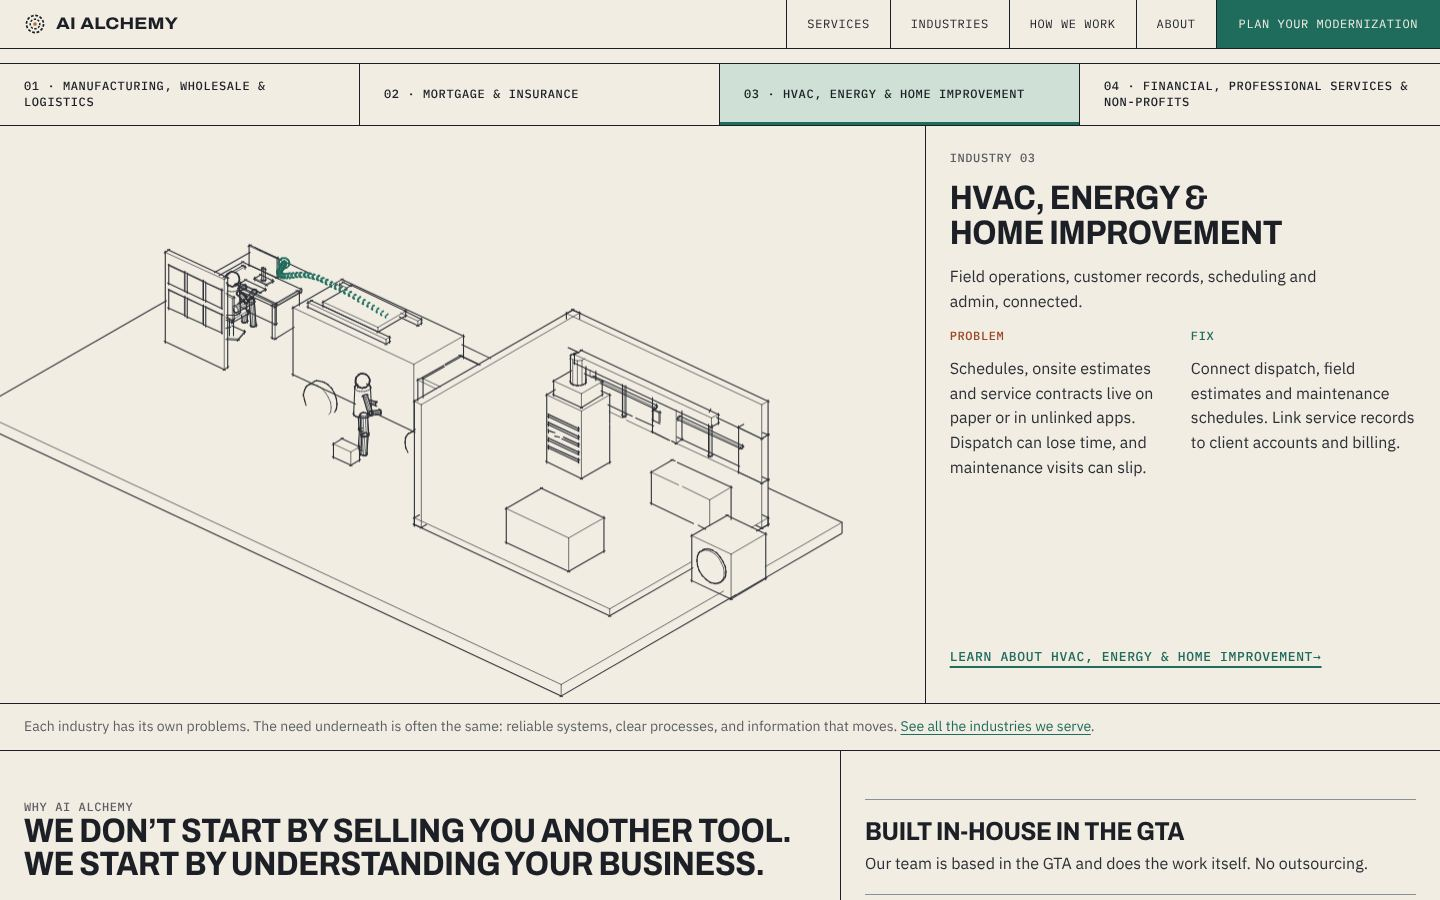
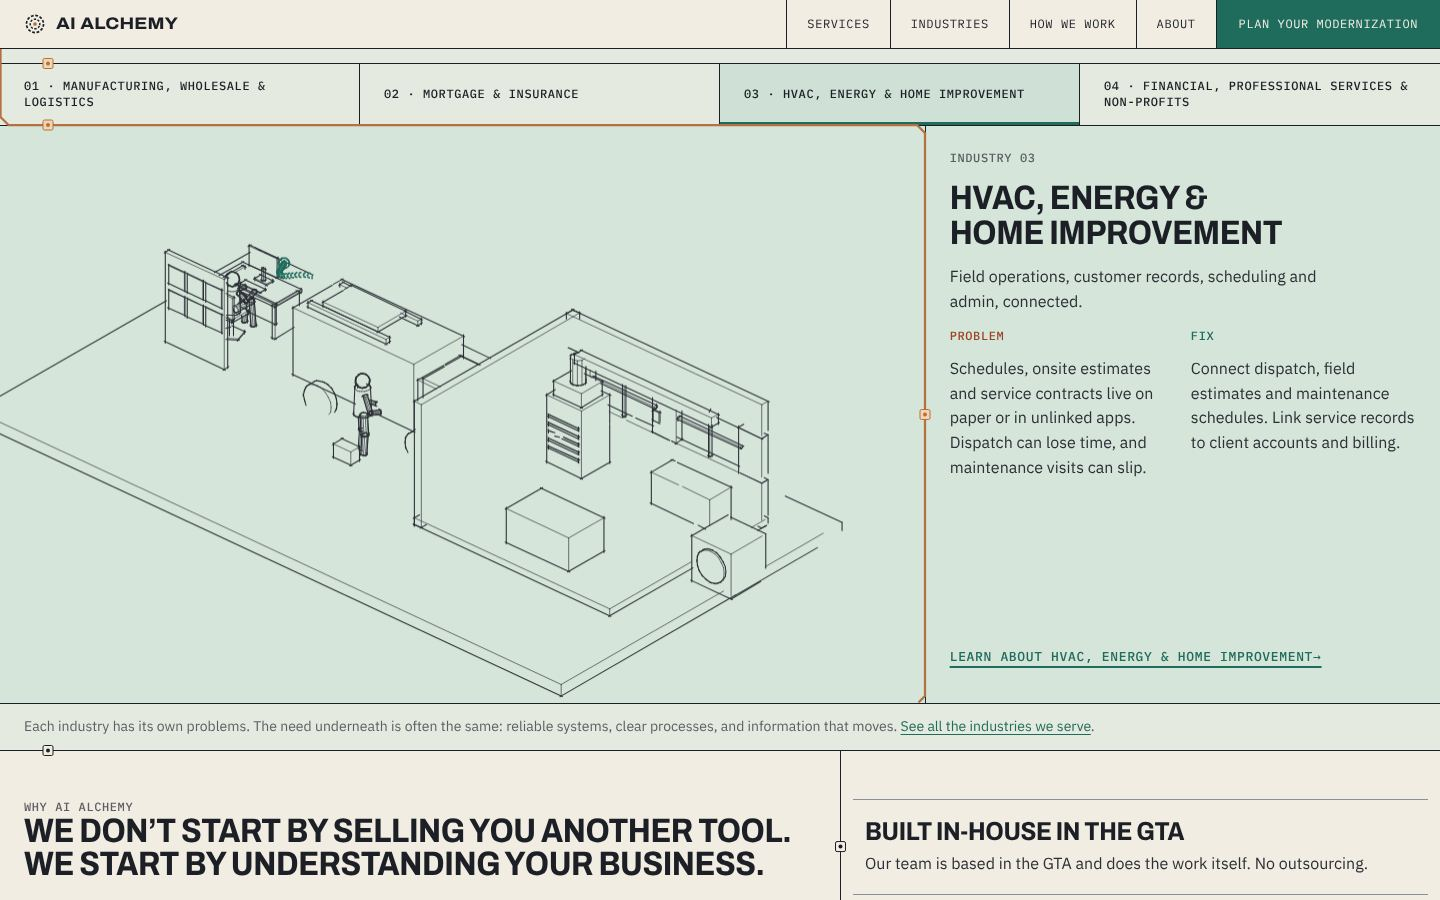
Homepage as one continuous circuit board
One copper trace runs along the page hairlines through every section;
areas power up in pastel colour as it reaches them and drawings shift
from graphite to colour. The board comes alive at the project brief.

Claude-Session: https://claude.ai/code/session_017Smo8XCRpNrmJT8zS28vAY

diff --git a/assets/board.js b/assets/board.js
@@ -1,0 +1,201 @@
+/* AI Alchemy homepage as one circuit board.
+   The page's hairline grid is the board. One copper trace runs along those hairlines from the hero to the
+   project brief, joining every component in order. As you scroll the trace draws on; each area it reaches
+   powers up and gains its colour; when the trace reaches the brief, the whole board is live.
+   Traces only ever run on hairlines, so they never cross text. Reduced motion: everything is live at once. */
+(() => {
+  'use strict';
+  const main = document.querySelector('main'); if (!main) return;
+  const reduce = matchMedia('(prefers-reduced-motion: reduce)').matches;
+  const root = document.documentElement; root.classList.add('has-board');
+  const NS = 'http://www.w3.org/2000/svg';
+  const $$ = (s, r = document) => [...r.querySelectorAll(s)];
+
+  /* components, in the order the trace visits them. side: where the pad sits on the component's box */
+  const PLAN = [
+    ['.hero-drawing', 'b', '.hero'], ['.hero-side', 'l'], ['.ticker', 't'],
+    ['.problems .head', 'b', '.problems'], ['.p-col', 't', 'self'],
+    ['.chain .head', 'b', '.chain'], ['.tower .stage', 'r', 'self'], ['.chain-note', 't'],
+    ['.products > div:last-child', 'l', '.products'],
+    ['.how .head', 'b', '.how'], ['.how-view', 'b'], ['.how-steps > li', 't', 'self'],
+    ['.ind .head', 'b', '.ind'], ['.ind-tabs', 'b'], ['.ind-panel:not([hidden]) figure', 'r', '.ind-panel:not([hidden])'],
+    ['.notes', 't', '.notes'], ['.notes .fact', 'l', 'self'],
+    ['.brief-band', 't', '.brief-band'], ['.brief-band .btn', 'l']
+  ];
+
+  const svg = document.createElementNS(NS, 'svg'); svg.classList.add('board'); svg.setAttribute('aria-hidden', 'true');
+  const mk = (n, a) => { const e = document.createElementNS(NS, n); for (const k in a) e.setAttribute(k, a[k]); return e; };
+  const trace = mk('path', { class: 'trace' }), pulse = mk('path', { class: 'pulse' }), padsG = mk('g', { class: 'pads' });
+  svg.append(trace, pulse, padsG);
+  main.style.position = 'relative'; main.append(svg);
+
+  let path = [], cum = [], nodes = [], total = 0, shown = 0, target = 0, alive = false;
+
+  /* ---- 1. read the hairlines ---- */
+  const inSticky = el => { for (let e = el; e && e !== main; e = e.parentElement) { const p = getComputedStyle(e).position; if (p === 'sticky' || p === 'fixed') return true; } return false; };
+  function hairlines() {
+    const mr = main.getBoundingClientRect(), ox = mr.left, oy = mr.top, H = [], V = [];
+    for (const el of main.querySelectorAll('*')) {
+      if (el === svg || svg.contains(el) || el.closest('.ld') || el.closest('[hidden]')) continue;
+      const cs = getComputedStyle(el); if (cs.display === 'none' || cs.visibility === 'hidden') continue;
+      const bt = parseFloat(cs.borderTopWidth), bb = parseFloat(cs.borderBottomWidth), bl = parseFloat(cs.borderLeftWidth), br = parseFloat(cs.borderRightWidth);
+      if (!(bt || bb || bl || br)) continue;
+      if (el.closest('.notes ol')) continue;                     /* faint list rules are not traces */
+      if (inSticky(el)) continue;
+      const r = el.getBoundingClientRect(); if (r.width < 2 || r.height < 2) continue;
+      const x0 = r.left - ox, x1 = r.right - ox, y0 = r.top - oy, y1 = r.bottom - oy;
+      if (bt) H.push([y0 + bt / 2, x0, x1]); if (bb) H.push([y1 - bb / 2, x0, x1]);
+      if (bl) V.push([x0 + bl / 2, y0, y1]); if (br) V.push([x1 - br / 2, y0, y1]);
+    }
+    /* the board edges, so every area has a way round */
+    const W = main.clientWidth, Hh = main.scrollHeight;
+    V.push([0.5, 0, Hh], [W - 0.5, 0, Hh]);
+    return { H: merge(H), V: merge(V) };
+  }
+  const merge = segs => {
+    segs = segs.map(s => [Math.round(s[0] * 2) / 2, s[1], s[2]]).sort((a, b) => a[0] - b[0] || a[1] - b[1]);
+    const out = [];
+    for (const s of segs) { const l = out[out.length - 1]; if (l && Math.abs(l[0] - s[0]) < 1.6 && s[1] <= l[2] + 2) l[2] = Math.max(l[2], s[2]); else out.push(s.slice()); }
+    return out;
+  };
+
+  /* ---- 2. graph: points where hairlines meet, plus pads ---- */
+  function graph(H, V, pads) {
+    const pts = [], key = new Map(), adj = [];
+    const id = (x, y) => { const k = Math.round(x) + ',' + Math.round(y); if (!key.has(k)) { key.set(k, pts.length); pts.push([x, y]); adj.push([]); } return key.get(k); };
+    const onH = H.map(() => []), onV = V.map(() => []);
+    H.forEach((h, i) => V.forEach((v, j) => { if (v[0] >= h[1] - 1.5 && v[0] <= h[2] + 1.5 && h[0] >= v[1] - 1.5 && h[0] <= v[2] + 1.5) { const n = id(v[0], h[0]); onH[i].push(n); onV[j].push(n); } }));
+    const padIds = pads.map(p => { const n = id(p.x, p.y); (p.h != null ? onH[p.h] : onV[p.v]).push(n); return n; });
+    const link = (list, axis) => { const u = [...new Set(list)].sort((a, b) => pts[a][axis] - pts[b][axis]); for (let i = 1; i < u.length; i++) { const a = u[i - 1], b = u[i], d = Math.abs(pts[b][axis] - pts[a][axis]); adj[a].push([b, d, axis]); adj[b].push([a, d, axis]); } };
+    onH.forEach(l => link(l, 0)); onV.forEach(l => link(l, 1));
+    return { pts, adj, padIds };
+  }
+  /* nearest point on a hairline to the pad's anchor */
+  function snap(H, V, x, y, side) {
+    let best = null, bd = 1e9;
+    const horiz = side === 't' || side === 'b';
+    if (horiz) H.forEach((h, i) => { if (x < h[1] - 1 || x > h[2] + 1) return; const d = Math.abs(h[0] - y); if (d < bd) { bd = d; best = { x, y: h[0], h: i }; } });
+    else V.forEach((v, i) => { if (y < v[1] - 1 || y > v[2] + 1) return; const d = Math.abs(v[0] - x); if (d < bd) { bd = d; best = { x: v[0], y, v: i }; } });
+    return bd < 80 ? best : null;
+  }
+  /* shortest route, with a cost for every turn and for reusing a hairline already used */
+  function route(G, a, b, used) {
+    const n = G.pts.length, dist = new Float64Array(n * 3).fill(Infinity), prev = new Int32Array(n * 3).fill(-1);
+    const heap = [[0, a * 3 + 2]]; dist[a * 3 + 2] = 0;
+    const push = e => { heap.push(e); let i = heap.length - 1; while (i) { const p = (i - 1) >> 1; if (heap[p][0] <= heap[i][0]) break; [heap[p], heap[i]] = [heap[i], heap[p]]; i = p; } };
+    const pop = () => { const t = heap[0], l = heap.pop(); if (heap.length) { heap[0] = l; let i = 0; for (;;) { const L = 2 * i + 1, R = L + 1; let m = i; if (L < heap.length && heap[L][0] < heap[m][0]) m = L; if (R < heap.length && heap[R][0] < heap[m][0]) m = R; if (m === i) break; [heap[m], heap[i]] = [heap[i], heap[m]]; i = m; } } return t; };
+    while (heap.length) {
+      const [d, s] = pop(); if (d > dist[s]) continue; const u = (s / 3) | 0, ax = s % 3;
+      if (u === b) { const out = []; for (let t = s; t >= 0; t = prev[t]) out.push((t / 3) | 0); return out.reverse(); }
+      for (const [v, w, axis] of G.adj[u]) {
+        const e = u < v ? u + '-' + v : v + '-' + u;
+        const c = d + w * (used.has(e) ? 4 : 1) + (ax !== 2 && ax !== axis ? 60 : 0), t = v * 3 + axis;
+        if (c < dist[t]) { dist[t] = c; prev[t] = s; push([c, t]); }
+      }
+    }
+    return null;
+  }
+
+  /* ---- 3. build the board ---- */
+  function build() {
+    const mr = main.getBoundingClientRect();
+    svg.setAttribute('width', main.clientWidth); svg.setAttribute('height', main.scrollHeight);
+    svg.setAttribute('viewBox', `0 0 ${main.clientWidth} ${main.scrollHeight}`);
+    const { H, V } = hairlines();
+    const pads = [];
+    for (const [sel, side, zone] of PLAN) for (const el of $$(sel, main)) {
+      if (el.closest('[hidden]')) continue;
+      const r = el.getBoundingClientRect(); if (!r.height) continue;
+      const x = (side === 'l' ? r.left : side === 'r' ? r.right : r.left + Math.min(r.width / 2, 48)) - mr.left;
+      const y = (side === 't' ? r.top : side === 'b' ? r.bottom : r.top + r.height / 2) - mr.top;
+      const p = snap(H, V, x, y, side); if (!p) continue;
+      p.zone = zone === 'self' ? el : zone ? el.closest(zone) || main.querySelector(zone) : null; p.el = el;
+      pads.push(p);
+    }
+    const G = graph(H, V, pads), used = new Set();
+    path = []; nodes = [];
+    for (let i = 0; i < pads.length; i++) {
+      if (i === 0) { path.push(G.padIds[0]); nodes.push({ i: 0, pad: pads[0] }); continue; }
+      const r = route(G, G.padIds[i - 1], G.padIds[i], used); if (!r) continue;
+      for (let k = 1; k < r.length; k++) { const a = r[k - 1], b = r[k]; used.add(a < b ? a + '-' + b : b + '-' + a); path.push(b); }
+      nodes.push({ i: path.length - 1, pad: pads[i] });
+    }
+    const P = path.map(n => G.pts[n]);
+    /* drop points in the middle of straight runs, then round the corners like a drawn trace */
+    const Q = P.filter((p, i) => i === 0 || i === P.length - 1 || !((P[i - 1][0] === p[0] && p[0] === P[i + 1][0]) || (P[i - 1][1] === p[1] && p[1] === P[i + 1][1])));
+    let d = `M${Q[0][0]},${Q[0][1]}`;
+    for (let i = 1; i < Q.length; i++) {
+      const a = Q[i - 1], b = Q[i], c = Q[i + 1];
+      if (!c) { d += `L${b[0]},${b[1]}`; break; }
+      const r = Math.min(8, Math.hypot(b[0] - a[0], b[1] - a[1]) / 2, Math.hypot(c[0] - b[0], c[1] - b[1]) / 2);
+      const ux = Math.sign(b[0] - a[0]), uy = Math.sign(b[1] - a[1]), vx = Math.sign(c[0] - b[0]), vy = Math.sign(c[1] - b[1]);
+      d += `L${b[0] - ux * r},${b[1] - uy * r}L${b[0] + vx * r},${b[1] + vy * r}`;   /* 45° chamfer */
+    }
+    trace.setAttribute('d', d); pulse.setAttribute('d', d);
+    total = trace.getTotalLength();
+    /* length along the trace at each node and the deepest point reached so far */
+    cum = [0]; for (let i = 1; i < P.length; i++) cum[i] = cum[i - 1] + Math.hypot(P[i][0] - P[i - 1][0], P[i][1] - P[i - 1][1]);
+    const scale = total / (cum[cum.length - 1] || 1);            /* chamfers make the drawn path a touch shorter */
+    cum = cum.map(c => c * scale);
+    let ymax = -1; P.forEach((p, i) => { ymax = Math.max(ymax, p[1]); P[i].ym = ymax; }); /* prefix max of y */
+    build.P = P;
+    padsG.textContent = '';
+    nodes.forEach(n => {
+      const p = n.pad, el = mk('g', { class: 'pad' });
+      el.append(mk('rect', { x: p.x - 5, y: p.y - 5, width: 10, height: 10, rx: 1.5 }), mk('circle', { cx: p.x, cy: p.y, r: 2 }));
+      padsG.append(el); n.g = el; n.L = cum[n.i];
+    });
+    trace.style.strokeDasharray = `${total} ${total}`;
+    pulse.style.strokeDasharray = `60 ${Math.max(400, total / 6)}`;
+    measure(); if (reduce) shown = target = total; paint();
+  }
+
+  /* ---- 4. scroll: the trace reaches as far as 70% down the screen ---- */
+  function measure() {
+    const P = build.P; if (!P || !P.length) return;
+    const T = scrollY + innerHeight * .7 - (main.getBoundingClientRect().top + scrollY);
+    let L = 0;
+    for (let i = 1; i < P.length; i++) {
+      if (P[i].ym <= T) { L = cum[i]; continue; }
+      const a = P[i - 1], b = P[i];                      /* partly drawn segment going down */
+      if (b[1] > a[1] && T > a[1] && a.ym <= T) L = cum[i - 1] + (cum[i] - cum[i - 1]) * (T - a[1]) / (b[1] - a[1]);
+      break;
+    }
+    if (scrollY + innerHeight >= document.documentElement.scrollHeight - 4) L = total;   /* bottom of the page */
+    target = L;
+  }
+  function paint() {
+    trace.style.strokeDashoffset = total - shown;
+    for (const n of nodes) {
+      const on = shown >= n.L - 1;
+      n.g.classList.toggle('on', on);
+      const z = n.pad.zone; if (z && on && !z.classList.contains('live')) { z.classList.add('live'); $$('.ld', z).forEach(liven); if (z.matches('.ld')) liven(z); }
+      if (z && !on && n === firstOf(z)) { z.classList.remove('live'); $$('.ld', z).forEach(dim); }
+    }
+    const a = shown >= total - 2;
+    if (a !== alive) {
+      alive = a; root.classList.toggle('board-alive', a);
+      if (a && !reduce && pulse.animate) { const per = 60 + Math.max(400, total / 6); pulse.__a = pulse.animate([{ strokeDashoffset: 0 }, { strokeDashoffset: -per }], { duration: per * 4, iterations: Infinity }); }
+      else if (pulse.__a) { pulse.__a.cancel(); pulse.__a = null; }
+    }
+  }
+  const firstOf = z => nodes.find(n => n.pad.zone === z);
+  const liven = el => { el.dataset.live = 1; el.__draw && el.__draw.setLive && el.__draw.setLive(1); };
+  const dim = el => { el.dataset.live = 0; el.__draw && el.__draw.setLive && el.__draw.setLive(0); };
+
+  let raf = 0;
+  const loop = () => {
+    raf = 0; const diff = target - shown;
+    shown = Math.abs(diff) < 1 ? target : shown + diff * .12;    /* the trace runs on rather than jumping */
+    paint(); if (shown !== target) raf = requestAnimationFrame(loop);
+  };
+  const kick = () => { measure(); if (reduce) shown = target = total; if (!raf) raf = requestAnimationFrame(loop); };
+  addEventListener('scroll', kick, { passive: true });
+
+  let t = 0; const rebuild = () => { clearTimeout(t); t = setTimeout(build, 120); };
+  addEventListener('resize', rebuild);
+  new ResizeObserver(rebuild).observe(main);
+  document.addEventListener('click', e => { if (e.target.closest('.ind-tabs')) rebuild(); });
+  (document.fonts ? document.fonts.ready : Promise.resolve()).then(build);
+  build();
+})();

diff --git a/assets/lines.js b/assets/lines.js
@@ -11,6 +11,10 @@
   const load = src => cache.get(src) || (cache.set(src, fetch(src).then(r => r.json())), cache.get(src));
   const clamp = v => v < 0 ? 0 : v > 1 ? 1 : v;
   const all = [];
+  /* on the circuit board, a drawing waits in graphite until the trace reaches it, then gains its colours */
+  const hex = h => [1, 3, 5].map(i => parseInt(h.slice(i, i + 2), 16));
+  const mix = (a, b, t) => { const A = hex(a), B = hex(b); return `rgb(${A.map((v, i) => Math.round(v + (B[i] - v) * t)).join(',')})`; };
+  const GRAPHITE = '#8F8B83', GRAPHITE_CU = '#B4AEA3';
 
   class Drawing {
     constructor(el, d) {
@@ -31,6 +35,7 @@
       });
       this.byG = new Map(this.groups.map(x => [x.g, x]));
       this.size(); this.dirty = true;
+      this.live = reduce || !document.documentElement.classList.contains('has-board') || el.dataset.live === '1' ? 1 : 0;
       el.classList.add('ld-ready'); el.__draw = this;
       el.dispatchEvent(new Event('ld:ready'));
       if (reduce) { this.groups.forEach(x => x.p = 1); }
@@ -40,6 +45,12 @@
       const r = this.el.getBoundingClientRect(), dpr = Math.min(2, devicePixelRatio || 1);
       this.k = r.width / this.d.W; this.cv.width = Math.round(r.width * dpr); this.cv.height = Math.round(this.d.H * this.k * dpr);
       this.dpr = dpr; this.dirty = true;
+    }
+    setLive(v) {
+      if (reduce) { this.live = v; this.dirty = true; return; }
+      const from = this.live, t0 = performance.now();
+      const step = now => { const k = clamp((now - t0) / 1100); this.live = from + (v - from) * (1 - Math.pow(1 - k, 3)); this.dirty = true; if (k < 1) requestAnimationFrame(step); };
+      requestAnimationFrame(step);
     }
     set(g, p) { const x = this.byG.get(g); if (x && !reduce && x.p !== p) { x.p = p; this.dirty = true; } }
     play(ms) { const t0 = performance.now(); const step = now => { const p = clamp((now - t0) / ms); this.groups.forEach(x => x.p = p); this.dirty = true; if (p < 1) requestAnimationFrame(step); }; requestAnimationFrame(step); }
@@ -66,6 +77,7 @@
     draw() {
       if (!this.dirty) return; this.dirty = false;
       const c = this.ctx, s = this.d.s, k = this.k * this.dpr;
+      const ink = this.live >= 1 ? INK : mix(GRAPHITE, INK, this.live), acc = this.live >= 1 ? this.cu : mix(GRAPHITE_CU, this.cu, this.live);
       c.setTransform(1, 0, 0, 1, 0, 0); c.clearRect(0, 0, this.cv.width, this.cv.height); c.lineCap = 'round';
       for (const x of this.groups) {
         if (x.p <= 0) continue;
@@ -74,7 +86,7 @@
           const o = i * 8, kind = s[o + 5], cu = s[o + 6], gh = s[o + 7];
           let x0 = s[o], y0 = s[o + 1], x1 = s[o + 2], y1 = s[o + 3];
           if (f >= 1 && kind === 1 && !cu) { const L = Math.hypot(x1 - x0, y1 - y0) || 1, e = 2.2 / L; x0 -= (x1 - x0) * e; y0 -= (y1 - y0) * e; x1 += (x1 - s[o]) * e; y1 += (y1 - s[o + 1]) * e; } // drafting overshoot
-          c.strokeStyle = cu ? this.cu : gh ? GHOST : INK;
+          c.strokeStyle = cu ? acc : gh ? GHOST : ink;
           c.globalAlpha = kind === 2 ? .45 : 1;
           c.lineWidth = (cu ? 2.4 : kind === 1 ? 1.45 : kind === 0 ? .9 : .7) * Math.max(.75, Math.min(1.25, this.k * 1.1)) * this.dpr;
           c.beginPath(); c.moveTo(x0 * k, y0 * k); c.lineTo((x0 + (x1 - x0) * f) * k, (y0 + (y1 - y0) * f) * k); c.stroke();

diff --git a/assets/site.css b/assets/site.css
@@ -410,7 +410,7 @@ legend,.step-title{font:720 var(--size-s)/1.05 var(--font-display);font-stretch:
 .tower .stage .go{margin-top:6px}
 .tower-draw{position:sticky;top:var(--nav-h);height:calc(100svh - var(--nav-h));overflow:hidden}
 .tower-draw .ld{width:min(100%,760px);margin:0 auto;will-change:transform}
-.ld-lbl{position:absolute;transform:translateY(-50%);font:500 .75rem/1.3 var(--font-mono);letter-spacing:.05em;text-transform:uppercase;color:var(--color-fg-faint);transition:color var(--t-slow) var(--ease)}
+.ld-lbl{position:absolute;transform:translateY(-50%);font:500 .75rem/1.3 var(--font-mono);letter-spacing:.05em;text-transform:uppercase;color:var(--color-fg-muted);transition:color var(--t-slow) var(--ease)}
 .ld-lbl b{display:block;font-weight:500}
 .ld-lbl.on{color:var(--color-pulse-text)}
 @media (max-width:1100px){
@@ -428,3 +428,35 @@ legend,.step-title{font:720 var(--size-s)/1.05 var(--font-display);font-stretch:
 }
 @media (max-width:600px){.ld-lbl{font-size:.625rem;left:auto!important;right:0;text-align:right}.ld-lbl b{display:none}}
 
+
+/* ---------- the homepage as one circuit board (assets/board.js) ----------
+   One copper trace runs along the hairlines; each area it reaches powers up and gains its colour. */
+@property --live{syntax:'<number>';inherits:true;initial-value:0}
+@property --lit{syntax:'<number>';inherits:false;initial-value:0}
+.has-board main>:is(.hero,.problems,.chain,.products,.how,.ind,.notes){
+  --sec:color-mix(in oklab,var(--tint) calc(var(--live) * 100%),var(--paper-100));
+  --color-bg:var(--sec);background-color:var(--sec);transition:--live 1.6s var(--ease)}
+.has-board main>.live{--live:1}
+.has-board :is(.p-col,.tower .stage,.how-steps>li,.notes .fact,.ind-panel){
+  --color-bg:color-mix(in oklab,var(--tint2) calc(var(--lit) * 80%),var(--sec,var(--paper-100)));
+  background-color:var(--color-bg);transition:--lit 1.2s var(--ease)}
+.has-board :is(.p-col,.tower .stage,.how-steps>li,.notes .fact,.ind-panel).live{--lit:1}
+.hero{--tint:#EEE2C9}
+.problems{--tint:#F6E6DA}.p-col{--tint2:#F1D3BF}
+.chain{--tint:#F4E7D8}.tower .stage{--tint2:#ECD5BD}
+.products{--tint:#F3E6C3}
+.how{--tint:#DFEAE2}.how-steps>li{--tint2:#CCDFD2}
+.ind{--tint:#E4EADF}.ind-panel{--tint2:#D6E5DA}
+.notes{--tint:#EFE6D5}.notes .fact{--tint2:#E9DCC4}
+.notes .fact{padding-inline:12px;margin-inline:-12px}
+.board{position:absolute;left:0;top:0;pointer-events:none;z-index:4;overflow:visible}
+.board .trace,.board .pulse{fill:none;stroke-width:2.25;stroke-linejoin:round;stroke-linecap:round}
+.board .trace{stroke:var(--copper-500,#B5703F)}
+.board .pulse{stroke:#F2C48C;opacity:0;transition:opacity 1.2s}
+.board-alive .board .pulse{opacity:1}
+.board .pad rect{fill:var(--paper-100);stroke:var(--color-line);stroke-width:1;transition:fill .6s,stroke .6s}
+.board .pad circle{fill:var(--color-line);transition:fill .6s}
+.board .pad.on rect{fill:#F2D6B3;stroke:#B5703F}
+.board .pad.on circle{fill:#B5703F}
+.tower-draw,.tower .chain-meter{z-index:6}
+@media (prefers-reduced-motion:reduce){.board .pulse{display:none}}

diff --git a/index.html b/index.html
@@ -119,6 +119,7 @@ DRAWN · AI ALCHEMY</span></div>
 </footer>
 <script src="/home/inner.js" defer></script>
 <script src="/assets/lines.js" defer></script>
+<script src="/assets/board.js" defer></script>
 <script src="/assets/home.js" defer></script>
 </body>
 </html>

diff --git a/tools/build_site.py b/tools/build_site.py
@@ -143,7 +143,7 @@ def footer():
 </footer>'''
 
 SCRIPTS_INNER = '<script src="/home/inner.js" defer></script>\n<script src="/assets/lines.js" defer></script>'
-SCRIPTS_HOME = ('<script src="/home/inner.js" defer></script>\n<script src="/assets/lines.js" defer></script>\n<script src="/assets/home.js" defer></script>')
+SCRIPTS_HOME = ('<script src="/home/inner.js" defer></script>\n<script src="/assets/lines.js" defer></script>\n<script src="/assets/board.js" defer></script>\n<script src="/assets/home.js" defer></script>')
 
 def head(title, desc, path, ld=None, robots=None):
     url = SITE + path

diff --git a/docs/gate-3/ux-review.md b/docs/gate-3/ux-review.md
@@ -24,3 +24,10 @@ The review used the `ui-ux-pro-max` skill (`.claude/skills/ui-ux-pro-max`) on 20
 - **Industry tabs:** keyboard operable with the arrow keys, Home and End.
 
 Evidence (`docs/gate-3/evidence/`): desktop 1440×900 and phone 390×844 at the hero, problems, building floors 1, 3 and 5, scrolling back from floor 5, how we work, industries, a capability page, an industry page and reduced motion. No console errors and no horizontal overflow on any frame.
+
+## Circuit board (owner direction, 2026-11-23 22:26 UTC)
+- **One board:** `assets/board.js` reads the page's own hairlines and routes one copper trace along them, visiting every component in reading order. Because the trace only runs on hairlines, it never crosses text.
+- **Powering up:** the trace draws to 70% down the screen and eases rather than jumping. Each area it reaches fades from paper to its pastel (coral family for problems, copper for capabilities, verdigris for how we work and industries), and its drawing changes from graphite to ink and colour.
+- **Alive:** when the trace reaches the project brief, light pulses along the whole trace. Scrolling back withdraws the trace and returns areas to paper.
+- **Reduced motion:** the board is fully live at once, with no pulse.
+- **Robustness:** the board rebuilds on resize, font load and industry tab changes; it is `aria-hidden` and ignores pointer events.
